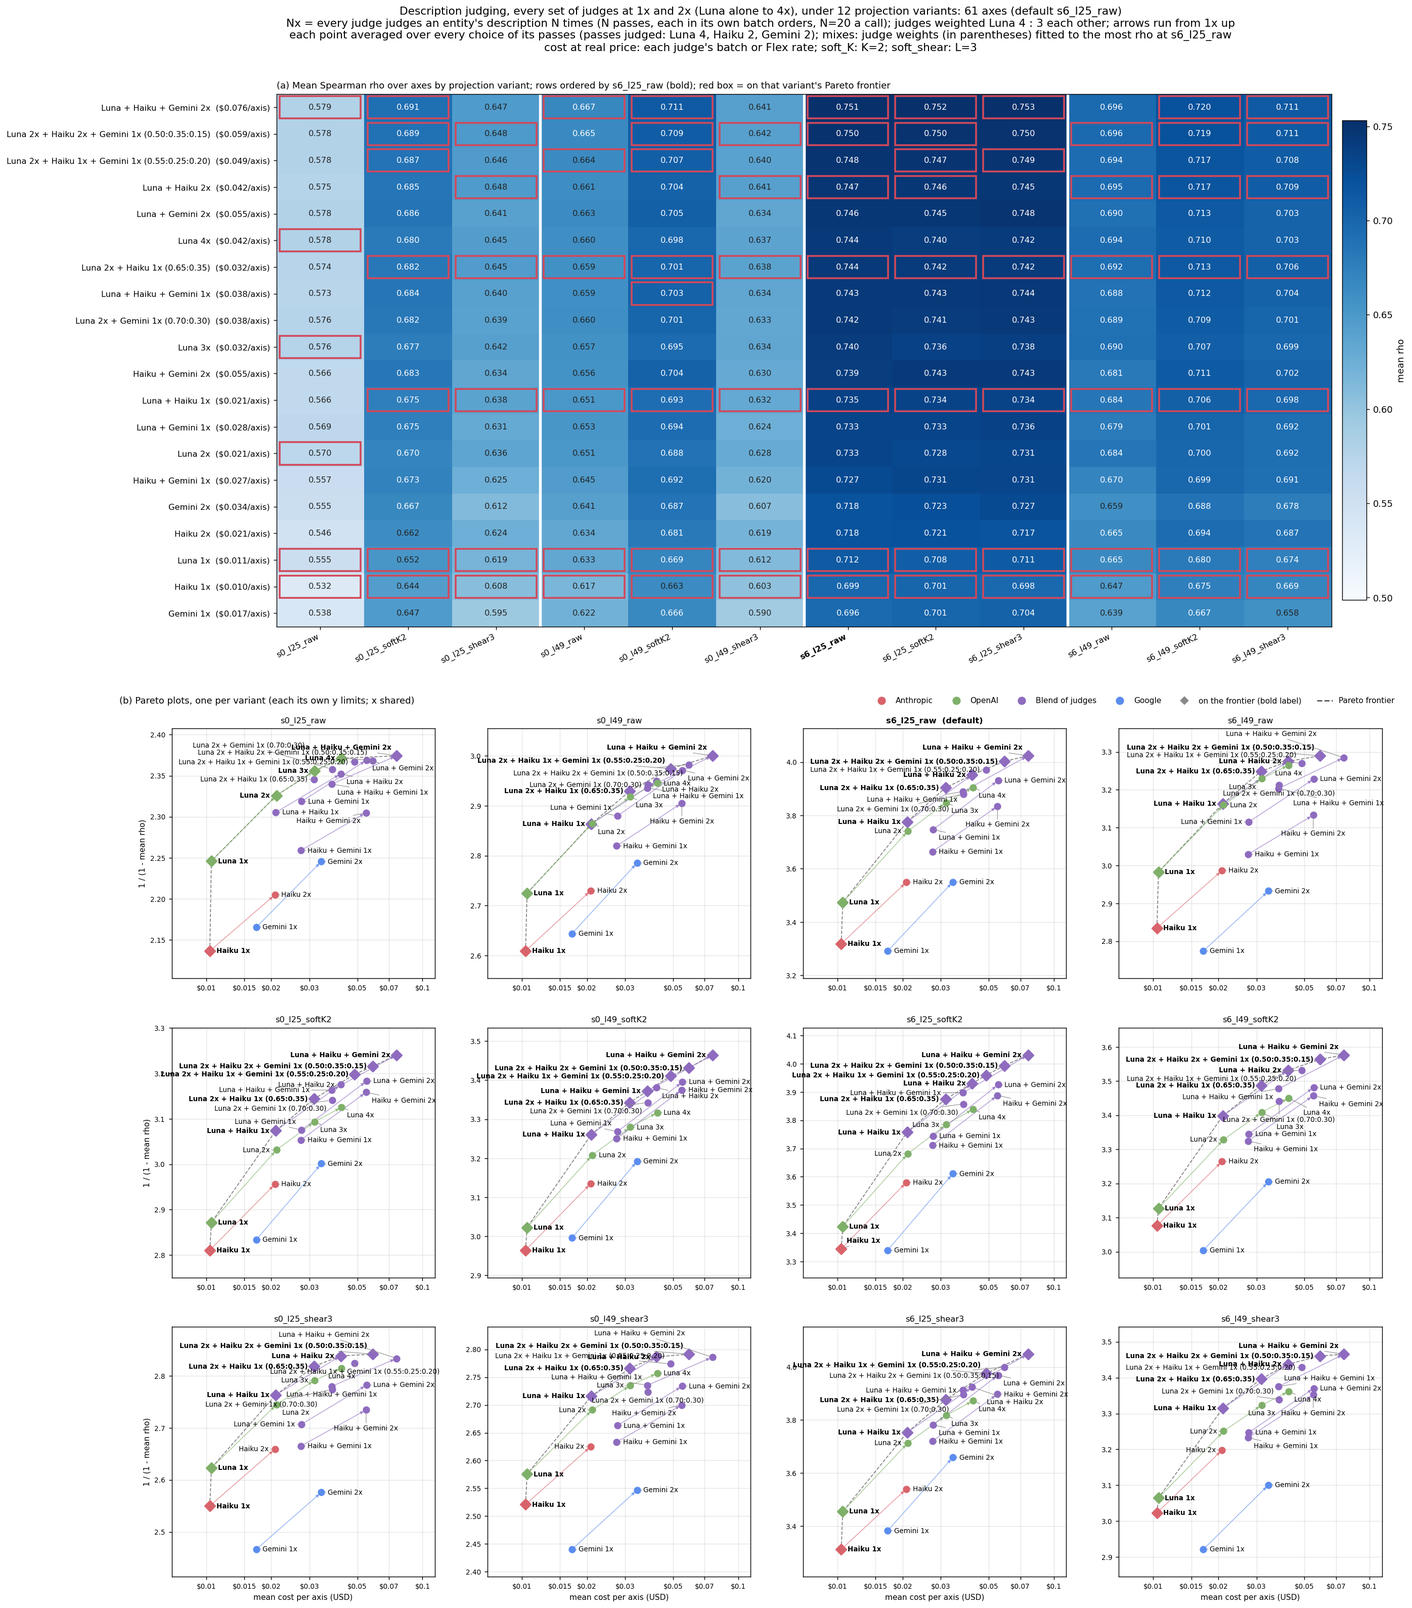
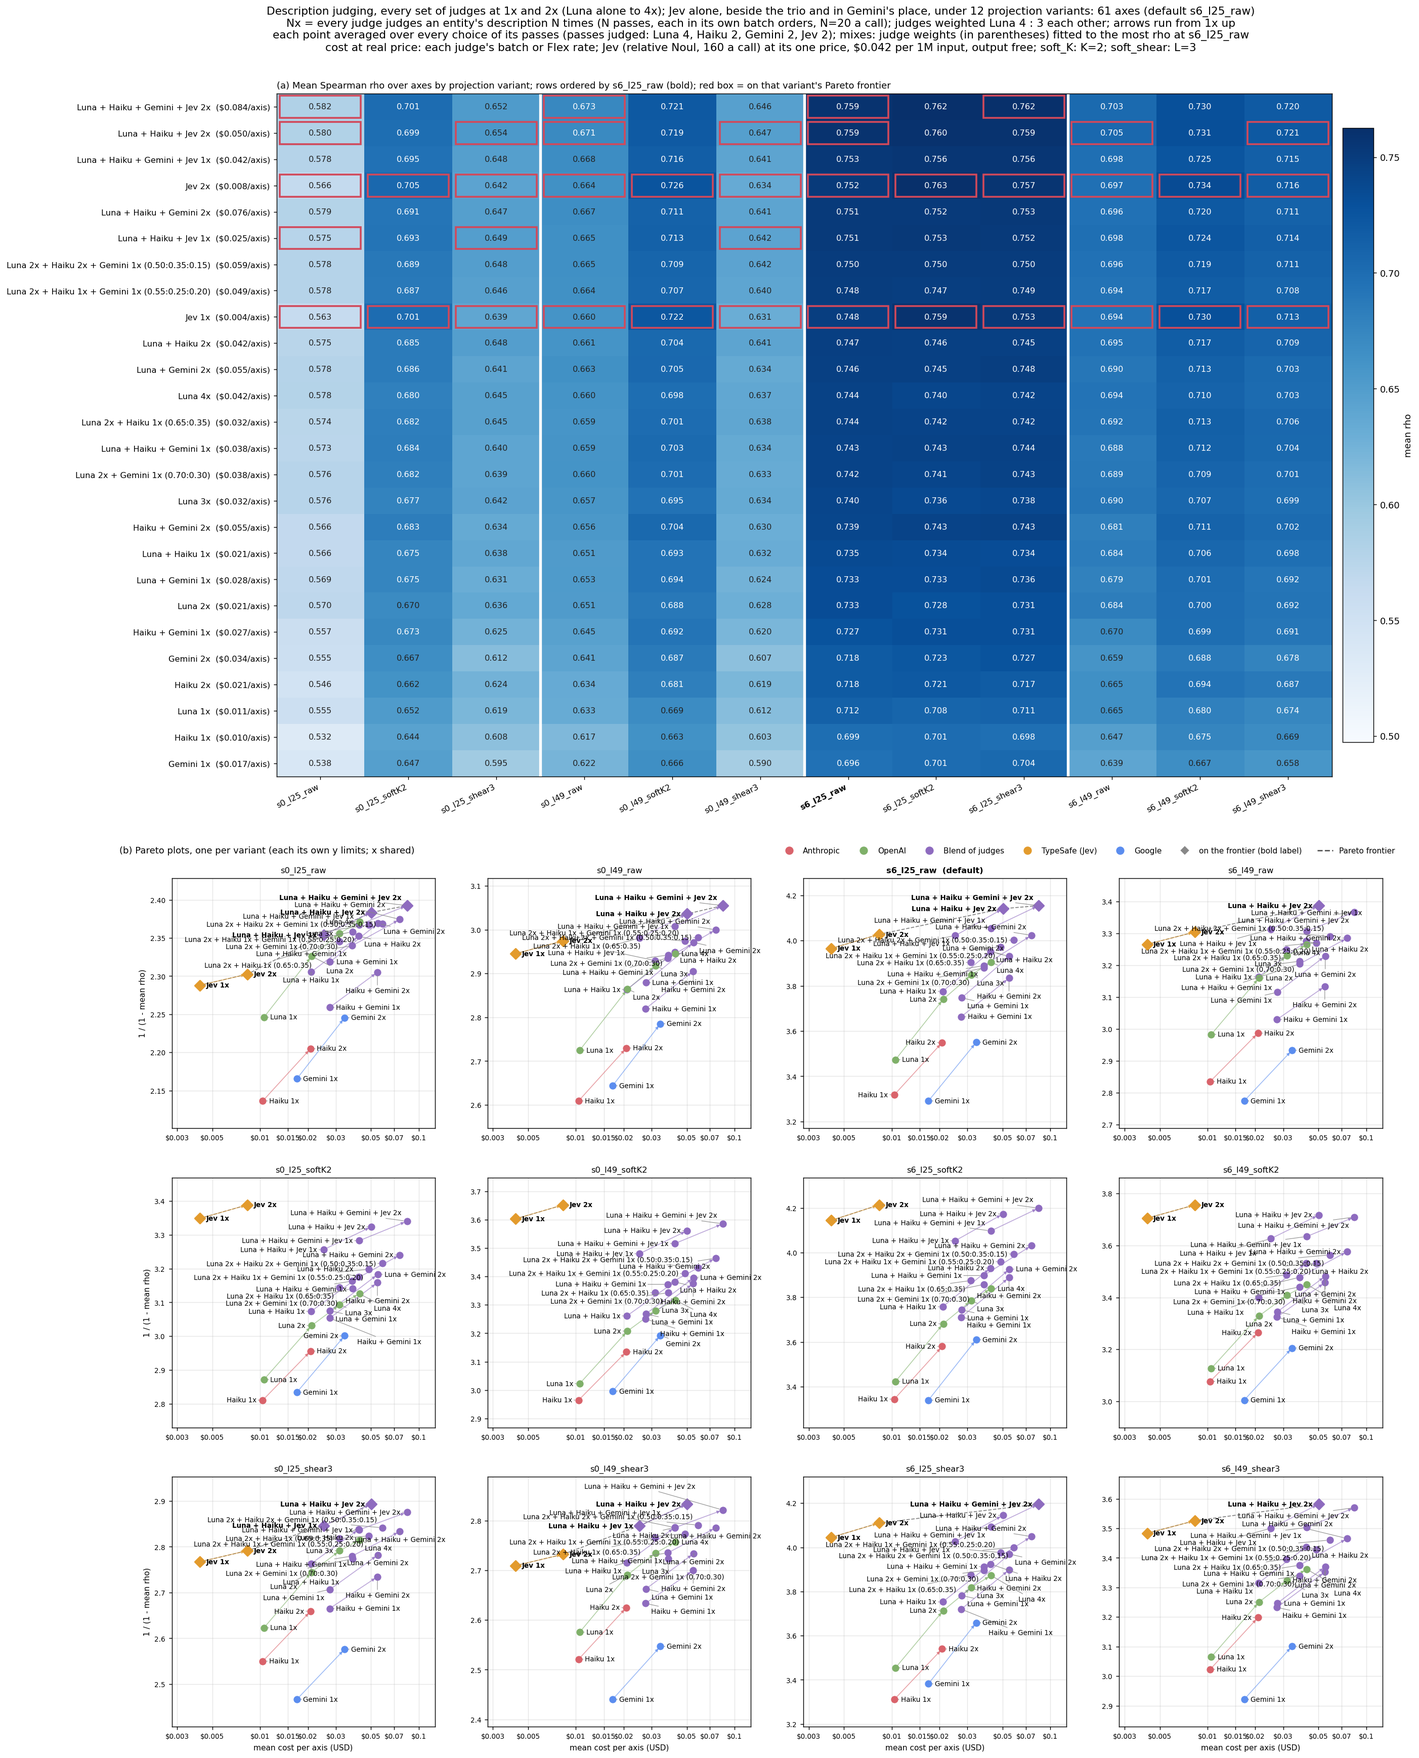
Jev in the 12-way Pareto figures, descriptions and instructions (Roger, 2026-11-04)
scripts/judge_instruction_12way.py draws Jev (TypeSafe AI) beside the three judges: Jev 1x and 2x, the trio + Jev and
Luna + Haiku + Jev (Gemini replaced) at 1x and 2x, Jev weighted 3.  Its cells are scripts/judge_jev_entities.py's
relative Noul at 160 entities a request, in the axes' own order like every other cell in the figures
(JEV_CELLS); --without_jev draws the figure as before.  Jev 1x is on the frontier under all 12 projection variants
in both modes.  The figures get a TypeSafe colour and legend entry (judge_tier_cost_plot_pooled.provider_of,
judge_tier_robustness.render_figure) and x ticks down to Jev's cost.  load_measured_cost now prices cache-read and
cache-written tokens at their factors of the input rate, as billed (it priced them as plain input before).

Changed region(s): [[0.0623, 0.0, 0.9971, 0.9965], [0.0935, 0.6851, 0.1246, 0.7785], [0.8413, 0.218, 0.8725, 0.2803]]

diff --git a/scripts/judge_instruction_12way.py b/scripts/judge_instruction_12way.py
@@ -21,6 +21,12 @@ apart (Luna 2x: 6 choices of its 4 passes).  The rho of one choice is judge_tier
 An earlier version (2026-11-03) read Nx as N of the five instructions judged once; its figure is kept in
 <output_dir>/coverage_reading/.
 
+Jev (TypeSafe AI, 2026-11-04, Roger: "show Jev, Jev 2x, adding Jev to the trio, and replacing Gemini with Jev"):
+the arms Jev 1x and 2x, the trio + Jev and Luna + Haiku + Jev (Gemini replaced) at 1x and 2x, Jev weighted 3 as
+each other judge.  Its cells are scripts/judge_jev_entities.py's best arm, a Noul question asking whether each
+entity is nearer the axis's second end than most of the other entities, 160 entities a request (JEV_CELLS), in
+the axes' own order like every other cell here; ``--without_jev`` draws the figure without them.
+
 ``--mode descriptions`` draws the same arms for description judging (Roger, 2026-11-03: "confirm that this
 also works well for description judging"): a pass is one cell of judge_descriptions.py's method
 (``<judge>@b10n20s<seed>jl``, the entity's description once, N=20 a call, the judge display form of the
@@ -53,7 +59,16 @@ from results_analysis.judge_tier_cost_eval import cell_scores_path, cell_usage_p
 from results_analysis.judge_tier_cost_plot_pooled import DEFAULT_PRICE_BASIS, PRICE_BASES, load_measured_cost
 
 JUDGES = (("Luna", "gpt-5.6-luna"), ("Haiku", "claude-haiku-5-5"), ("Gemini", "gemini-3.1-flash-lite"))
-NAMES = {m: n for n, m in JUDGES}
+JEV = "jev-1.14.0"
+NAMES = {**{m: n for n, m in JUDGES}, JEV: "Jev"}
+#: Jev's cells by mode, (round or pass) -> cell directory name: relative Noul, 160 entities a request, own order
+#: (scripts/judge_jev_entities.py); two passes in each mode (instruction rounds 0-9, description seeds 1 and 2).
+JEV_CELLS = {"instructions": lambda r: f"{JEV}@ji_noul_relative_n160_r{r}",
+             "descriptions": lambda r: f"{JEV}@jd_noul_relative_n160s{r + 1}"}
+JEV_PASSES = 2
+#: The Jev arms: the judges of each, drawn at 1x and 2x.
+JEV_SETS = ((("Jev", JEV),), (*JUDGES, ("Jev", JEV)), (JUDGES[0], JUDGES[1], ("Jev", JEV)))
+WITH_JEV = True
 CELL_ARM = "i1_p0n20"          # one instruction per entity per call, plain wrapper, N=20
 ROUNDS_PER_PASS = 5            # an entity's five instructions, one per round
 #: Passes judged (Roger, 2026-11-03: "take Luna to 4x, Haiku and Gemini to 2x")
@@ -70,7 +85,7 @@ MIXES = ({"gpt-5.6-luna": 2, "claude-haiku-5-5": 1},
          {"gpt-5.6-luna": 2, "claude-haiku-5-5": 2, "gemini-3.1-flash-lite": 1})
 WEIGHT_STEP = 0.05
 STEM = "judge_instruction_12way"
-X_TICKS = (0.03, 0.05, 0.07, 0.1, 0.15, 0.2, 0.3, 0.5, 0.7)
+X_TICKS = (0.02, 0.03, 0.05, 0.07, 0.1, 0.15, 0.2, 0.3, 0.5, 0.7)     # 0.02 for Jev 1x (2026-11-04)
 #: Description judging: the cells of judge_descriptions.py's method under the judge display form (the
 #: ``jl`` siblings, scripts/judge_tier_reask.py --mode names, or judged under that form); Luna's cell name
 #: carries its reasoning-off token.
@@ -101,7 +116,8 @@ MODES = {
                          EXTRA_PASSES, MIXES, CELL_ARM, STEM, X_TICKS, "each of an entity's five instructions"),
     "descriptions": Mode("descriptions", lambda m, r: f"{m}{DESC_CELL_TOKEN.get(m, '')}@{DESC_CELL_ARM}s{r + 1}jl", 1,
                          DESC_PASSES, SET_PASSES, DESC_EXTRA_PASSES, MIXES, f"{DESC_CELL_ARM}jl", "judge_description_12way",
-                         (0.01, 0.015, 0.02, 0.03, 0.05, 0.07, 0.1, 0.15, 0.2, 0.3), "an entity's description"),
+                         (0.003, 0.005, 0.01, 0.015, 0.02, 0.03, 0.05, 0.07, 0.1, 0.15, 0.2, 0.3),
+                         "an entity's description"),
 }
 INSTRUCTIONS = MODES["instructions"]
 
@@ -115,9 +131,20 @@ def pass_rounds(p: int, rounds_per_pass: int = ROUNDS_PER_PASS) -> range:
     return range(rounds_per_pass * p, rounds_per_pass * (p + 1))
 
 
+def cell_of(mode: "Mode", m: str, r: int) -> str:
+    """The cell directory of judge ``m``'s round (or pass) ``r`` in ``mode``."""
+    return JEV_CELLS[mode.name](r) if m == JEV else mode.cell(m, r)
+
+
+def passes_of(mode: "Mode") -> Dict[str, int]:
+    """Each judge's passes in ``mode``, Jev's included when it is drawn."""
+    return {**mode.passes, **({JEV: JEV_PASSES} if WITH_JEV else {})}
+
+
 def arms(mode: Mode = INSTRUCTIONS) -> Dict[str, Tuple[str, Dict[str, int]]]:
     """``{arm key: (label, {model: passes})}``: singles, pairs, the trio, each at every k of the mode's
-    set_passes; a judge alone at its extra_passes; then the mixes."""
+    set_passes; a judge alone at its extra_passes; then the mixes; then, unless --without_jev, the Jev sets
+    (JEV_SETS) at 1x and 2x."""
     out = {}
     for size in (1, 2, 3):
         for combo in itertools.combinations(JUDGES, size):
@@ -127,6 +154,11 @@ def arms(mode: Mode = INSTRUCTIONS) -> Dict[str, Tuple[str, Dict[str, int]]]:
                 out[key] = (" + ".join(n for n, _ in combo) + f" {k}x", {m: k for _, m in combo})
     for spec in mode.mixes:
         out[mix_key(spec, mode)] = (" + ".join(f"{NAMES[m]} {k}x" for m, k in spec.items()), dict(spec))
+    if WITH_JEV:
+        for combo in JEV_SETS:
+            for k in (1, 2):
+                key = "+".join(m for _, m in combo) + f"@{mode.arm_token}x{k}"
+                out[key] = (" + ".join(n for n, _ in combo) + f" {k}x", {m: k for _, m in combo})
     return out
 
 
@@ -259,9 +291,12 @@ def main(argv=None) -> int:
     ap.add_argument("--axes_label", default="61 axes")
     ap.add_argument("--dev_axes_file", default="scripts/tier_eval_axes_dev30.tsv",
                     help="the development half, for the split-half check of the mixes' fitted weights")
+    ap.add_argument("--without_jev", action="store_true", help="leave the Jev arms out (the figure before 2026-11-04)")
     ap.add_argument("--cache-policy", dest="cache_policy", choices=CACHE_POLICIES, default="warn",
                     help="what to do when a score file's recorded inputs have changed: strict | warn (default) | rebuild | off")
     args = ap.parse_args(argv)
+    global WITH_JEV
+    WITH_JEV = not args.without_jev
     t0 = time.time()
     mode = MODES[args.mode]
     stem = args.stem or mode.stem
@@ -282,11 +317,12 @@ def main(argv=None) -> int:
     specs = {k: spec for k, (_, spec) in arms(mode).items()}
     models = sorted({m for spec in specs.values() for m in spec})
     scores, costs, score_paths, usage_paths, missing = {}, {}, [], [], []
-    rounds_of = {m: range(mode.rounds_per_pass * mode.passes[m]) for m in models}
+    passes = passes_of(mode)
+    rounds_of = {m: range(mode.rounds_per_pass * passes[m]) for m in models}
     for ax in axes:
         for m in models:
             for r in rounds_of[m]:
-                d = E / f"{ax.axis_dir}{rob.TIER_EVAL_SUFFIX}" / mode.cell(m, r)
+                d = E / f"{ax.axis_dir}{rob.TIER_EVAL_SUFFIX}" / cell_of(mode, m, r)
                 up = cell_usage_path(d) if cell_scores_path(d).exists() else d / "usage.json"
                 if not up.exists():
                     missing.append(str(d))
@@ -302,7 +338,7 @@ def main(argv=None) -> int:
     inputs.append(current_files_input(dep_key=f"{mode.name[:-1]}_scores", paths=score_paths))
     inputs.append(current_files_input(dep_key=f"{mode.name[:-1]}_usage", paths=usage_paths,
                                       extras={"price_basis": args.price_basis}))
-    print(f"[cells] {len(scores)} round cells (" + ", ".join(f"{NAMES[m]} {mode.passes[m]} passes" for m in models)
+    print(f"[cells] {len(scores)} round cells (" + ", ".join(f"{NAMES[m]} {passes[m]} passes" for m in models)
           + f"; {len(axes)} axes), {time.time() - t0:.1f}s", file=sys.stderr)
 
     # Projections under the 12 variants
@@ -325,7 +361,7 @@ def main(argv=None) -> int:
     for key, spec in specs.items():
         if len(set(spec.values())) > 1:
             grid = weight_grid(len(spec))
-            G = fit_rho(spec, axes, scores, {a: p[default] for a, p in projections.items()}, grid, mode.passes,
+            G = fit_rho(spec, axes, scores, {a: p[default] for a, p in projections.items()}, grid, passes,
                         mode.rounds_per_pass)
             fits[key] = fit_weights(G, grid, dev, list(spec))
             weights[key] = fits[key]["weights"]
@@ -336,7 +372,7 @@ def main(argv=None) -> int:
                   file=sys.stderr)
     print(f"[fit] {time.time() - t0:.1f}s", file=sys.stderr)
 
-    rho, cost, per_choice = arm_table(specs, axes, scores, costs, projections, vkeys, mode.passes, weights,
+    rho, cost, per_choice = arm_table(specs, axes, scores, costs, projections, vkeys, passes, weights,
                                       mode.rounds_per_pass)
     print(f"[rho] {time.time() - t0:.1f}s", file=sys.stderr)
     keys = list(specs)
@@ -355,7 +391,7 @@ def main(argv=None) -> int:
     out.mkdir(parents=True, exist_ok=True)
     extra = ", ".join(f"{NAMES[m]} alone to {max(k)}x" for m, k in mode.extra_passes.items())
     result = {"config": {"variants": vkeys, "default_variant": default, "price_basis": args.price_basis,
-                         "mode": mode.name, "passes": mode.passes, "rounds_per_pass": mode.rounds_per_pass,
+                         "mode": mode.name, "passes": passes, "rounds_per_pass": mode.rounds_per_pass,
                          "cell_arm": mode.arm_token, "axes_file": args.axes_file, "data_dir": str(data_dir),
                          "nx": f"{mode.text} judged N times, in N passes (pass p = rounds {mode.rounds_per_pass}p..)",
                          "passes_rule": "every choice of each judge's k passes, made for each judge apart",
@@ -365,7 +401,7 @@ def main(argv=None) -> int:
                          "weight_step": WEIGHT_STEP, "dev_axes_file": args.dev_axes_file},
               "axes": [ax.axis_dir for ax in axes],
               "arms": {k: {"label": labels[k], "judges": specs[k],
-                           "n_choices": len(replicates(specs[k], mode.passes, mode.rounds_per_pass)),
+                           "n_choices": len(replicates(specs[k], passes, mode.rounds_per_pass)),
                            "mean_cost": cost[k], "mean_rho": {vk: per_variant[vk][k]["mean_rho"] for vk in vkeys},
                            "on_frontier_of_12": counts[k], "per_choice_mean_rho": per_choice[k],
                            **({"fitted_weights": fits[k]} if k in fits else {})} for k in order},
@@ -374,14 +410,17 @@ def main(argv=None) -> int:
         result, title=f"{mode.name.capitalize()[:-1]} judging by passes, {len(vkeys)} projection variants",
         inputs=inputs), indent=1))
     headline = (f"{mode.name.capitalize()[:-1]} judging, every set of judges at 1x and 2x"
-                + (f" ({extra})" if extra else "") + f", under {len(variants)} projection variants: {args.axes_label} "
-                f"(default {default})")
+                + (f" ({extra})" if extra else "")
+                + ("; Jev alone, beside the trio and in Gemini's place" if WITH_JEV else "")
+                + f", under {len(variants)} projection variants: {args.axes_label} (default {default})")
     sub = (f"Nx = every judge judges {mode.text} N times (N passes, each in its own batch orders, N=20 a call); "
            f"judges weighted Luna 4 : 3 each other; arrows run from 1x up\n"
            f"each point averaged over every choice of its passes (passes judged: " + ", ".join(
-               f"{NAMES[m]} {n}" for m, n in mode.passes.items()) + f"); mixes: judge weights (in parentheses) fitted to "
+               f"{NAMES[m]} {n}" for m, n in passes.items()) + f"); mixes: judge weights (in parentheses) fitted to "
            f"the most rho at {default}\n"
-           f"cost at {rob.PRICE_BASIS_LABEL[args.price_basis]}; soft_K: K={rob.DEFAULT_SOFT_K}; "
+           f"cost at {rob.PRICE_BASIS_LABEL[args.price_basis]}"
+           + ("; Jev (relative Noul, 160 a call) at its one price, $0.042 per 1M input, output free" if WITH_JEV else "")
+           + f"; soft_K: K={rob.DEFAULT_SOFT_K}; "
            f"soft_shear: L={rob.DEFAULT_SOFT_SHEAR_L}")
     rob.render_figure(out / f"{stem}.png", order, variants, per_variant, frontiers, {k: True for k in keys}, default,
                       len(axes), sub, inputs,

diff --git a/scripts/tests/test_judge_instruction_12way.py b/scripts/tests/test_judge_instruction_12way.py
@@ -1,0 +1,40 @@
+"""scripts/judge_instruction_12way.py's Jev arms (2026-11-04): Jev 1x and 2x, the trio + Jev and Luna + Haiku + Jev at
+1x and 2x, Jev's own cell names, and --without_jev leaving them out."""
+import importlib.util
+from pathlib import Path
+
+
+def _mod():
+    path = Path(__file__).resolve().parents[1] / "judge_instruction_12way.py"
+    spec = importlib.util.spec_from_file_location("judge_instruction_12way", path)
+    mod = importlib.util.module_from_spec(spec)
+    spec.loader.exec_module(mod)
+    return mod
+
+
+def test_jev_arms_and_cells():
+    mod = _mod()
+    for name, mode in mod.MODES.items():
+        mod.WITH_JEV = True
+        a = mod.arms(mode)
+        jev = {k: v for k, v in a.items() if mod.JEV in v[1]}
+        labels = sorted(v[0] for v in jev.values())
+        assert labels == sorted(["Jev 1x", "Jev 2x", "Luna + Haiku + Gemini + Jev 1x", "Luna + Haiku + Gemini + Jev 2x",
+                                 "Luna + Haiku + Jev 1x", "Luna + Haiku + Jev 2x"]), name
+        assert mod.passes_of(mode)[mod.JEV] == 2
+        # the Jev sets run as arrows from 1x to 2x like the others
+        assert any(set(run) == {k for k, v in jev.items() if v[0].startswith("Jev ")} for run in mod.series(mode))
+        mod.WITH_JEV = False
+        assert not any(mod.JEV in v[1] for v in mod.arms(mode).values()) and mod.JEV not in mod.passes_of(mode)
+    mod.WITH_JEV = True
+    assert mod.cell_of(mod.MODES["instructions"], mod.JEV, 7) == "jev-1.14.0@ji_noul_relative_n160_r7"
+    assert mod.cell_of(mod.MODES["descriptions"], mod.JEV, 1) == "jev-1.14.0@jd_noul_relative_n160s2"
+    assert mod.cell_of(mod.MODES["instructions"], "gpt-5.6-luna", 3) == "gpt-5.6-luna@i1_p0n20r3"
+
+
+def test_jev_colour():
+    import sys
+    sys.path.insert(0, str(Path(__file__).resolve().parents[2]))
+    from results_analysis.judge_tier_cost_plot_pooled import PROVIDER_COLOR, provider_of
+    assert provider_of("jev-1.14.0") == "typesafe" and "typesafe" in PROVIDER_COLOR
+    assert provider_of("gpt-5.6-luna+jev-1.14.0@x") == "blend" and provider_of("claude-haiku-5-5") == "anthropic"

diff --git a/results_analysis/judge_tier_cost_plot_pooled.py b/results_analysis/judge_tier_cost_plot_pooled.py
@@ -63,14 +63,15 @@ import numpy as np
 
 from assistant_axis.judge_pricing import (
     GPT_MINI_RATE_IN, GPT_MINI_RATE_OUT, SONNET_RATE_IN, SONNET_RATE_OUT,
-    price_for_model,
+    cache_rate_factors, price_for_model,
 )
 from assistant_axis.plot_metadata import png_metadata
 from assistant_axis.provenance import (
     CACHE_POLICIES, InputSpec, current_file_input, current_files_input, load_and_register,
 )
 
-PROVIDER_COLOR = {"openai": "#7FB069", "anthropic": "#D9636B", "google": "#5B8DEF", "blend": "#8E6BBF"}
+PROVIDER_COLOR = {"openai": "#7FB069", "anthropic": "#D9636B", "google": "#5B8DEF", "typesafe": "#E39B2D",
+                  "blend": "#8E6BBF"}
 
 EST_IN_PER_ENTITY = 320 + 150
 EST_OUT_PER_ENTITY = 80
@@ -81,6 +82,8 @@ def provider_of(model: str) -> str:
         return "blend"
     if model.startswith("gemini"):
         return "google"
+    if model.startswith("jev"):     # TypeSafe AI's Jev (2026-11-04)
+        return "typesafe"
     return "openai" if model.startswith(("gpt-", "o1-", "o3-", "o4-")) else "anthropic"
 
 
@@ -168,7 +171,13 @@ def load_measured_cost(usage_path: Path, price_basis: str = DEFAULT_PRICE_BASIS)
             print(f"WARNING: {usage_path}: no {price_basis} price for {model!r}; using the recorded cost",
                   file=sys.stderr)
             return d.get("total_cost_usd")
-        total += (entry.get("prompt_tokens", 0) * rate_in
+        # cache-written and cache-read tokens (part of prompt_tokens) at their factors of the input rate, as
+        # billed (judge_pricing.cache_rate_factors; before 2026-11-04 they were repriced as plain input, which
+        # put a cached-prefix arm at five times its bill)
+        written, read = int(entry.get("cache_write_tokens", 0)), int(entry.get("cache_read_tokens", 0))
+        write_factor, read_factor = cache_rate_factors(model)
+        plain = entry.get("prompt_tokens", 0) - written - read
+        total += ((plain + written * write_factor + read * read_factor) * rate_in
                   + entry.get("completion_tokens", 0) * rate_out) / 1e6
     return total
 

diff --git a/results_analysis/tests/test_judge_tier_cost_plot_pooled.py b/results_analysis/tests/test_judge_tier_cost_plot_pooled.py
@@ -256,3 +256,18 @@ def test_the_frontier_keeps_only_points_on_its_convex_hull() -> None:
     # a point exactly on the chord of its neighbours stays
     line = [(0.01, q(0.70)), (0.02, q(0.72)), (0.03, q(0.74))]
     assert ptp.pareto_frontier(line) == [0, 1, 2]
+
+
+def test_measured_cost_prices_cache_tokens_as_billed(tmp_path: Path) -> None:
+    """A cached-prefix cell (2026-11-04): reads at a tenth of the input rate, writes at 1.25 times."""
+    from results_analysis.judge_tier_cost_plot_pooled import load_measured_cost
+    u = tmp_path / "usage.json"
+    u.write_text(json.dumps({"total_cost_usd": 0.2758, "per_model": {"gpt-5.6-luna:flex": {
+        "model": "gpt-5.6-luna:flex", "prompt_tokens": 11_645_195, "cache_read_tokens": 11_174_972,
+        "completion_tokens": 195_087}}}))
+    plain = 11_645_195 - 11_174_972
+    want = ((plain + 11_174_972 * 0.1) * 0.10 + 195_087 * 0.60) / 1e6
+    assert load_measured_cost(u, "batch") == pytest.approx(want) and abs(want - 0.2758) < 0.001
+    u.write_text(json.dumps({"per_model": {"gpt-5.6-luna:flex": {"model": "gpt-5.6-luna:flex", "prompt_tokens": 1_000_000,
+                                                                 "cache_write_tokens": 1_000_000, "completion_tokens": 0}}}))
+    assert load_measured_cost(u, "batch") == pytest.approx(1.25 * 0.10)

diff --git a/results_analysis/judge_tier_robustness.py b/results_analysis/judge_tier_robustness.py
@@ -967,7 +967,7 @@ def render_figure(out_png: Path, models_by_rho: Sequence[str], variants: Sequenc
     if not all(measured[m] for m in models_by_rho):
         handles.insert(3, plt.Line2D([0], [0], marker="o", color="w", markerfacecolor="none", markeredgecolor="#888888",
                                      markersize=8, label="hollow = estimated cost"))
-    for provider, name in (("google", "Google"), ("blend", "Blend of judges")):
+    for provider, name in (("google", "Google"), ("typesafe", "TypeSafe (Jev)"), ("blend", "Blend of judges")):
         if any(provider_of(m) == provider for m in models_by_rho):
             handles.insert(2, plt.Line2D([0], [0], marker="o", color="w", markerfacecolor=PROVIDER_COLOR[provider],
                                          markeredgecolor=PROVIDER_COLOR[provider], markersize=8, label=name))
